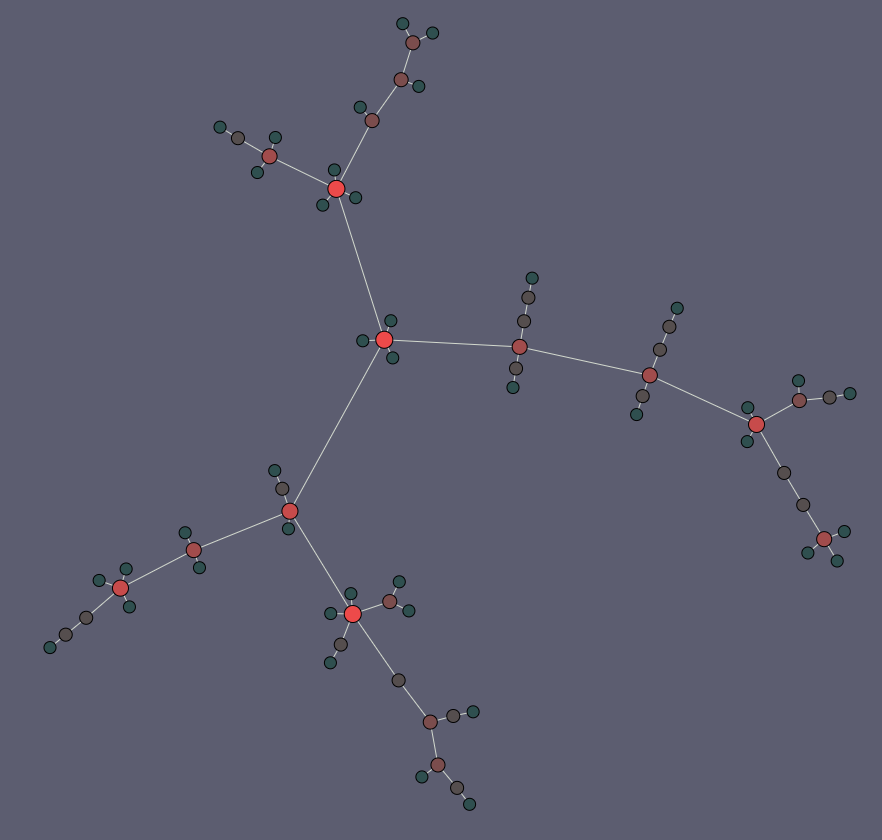
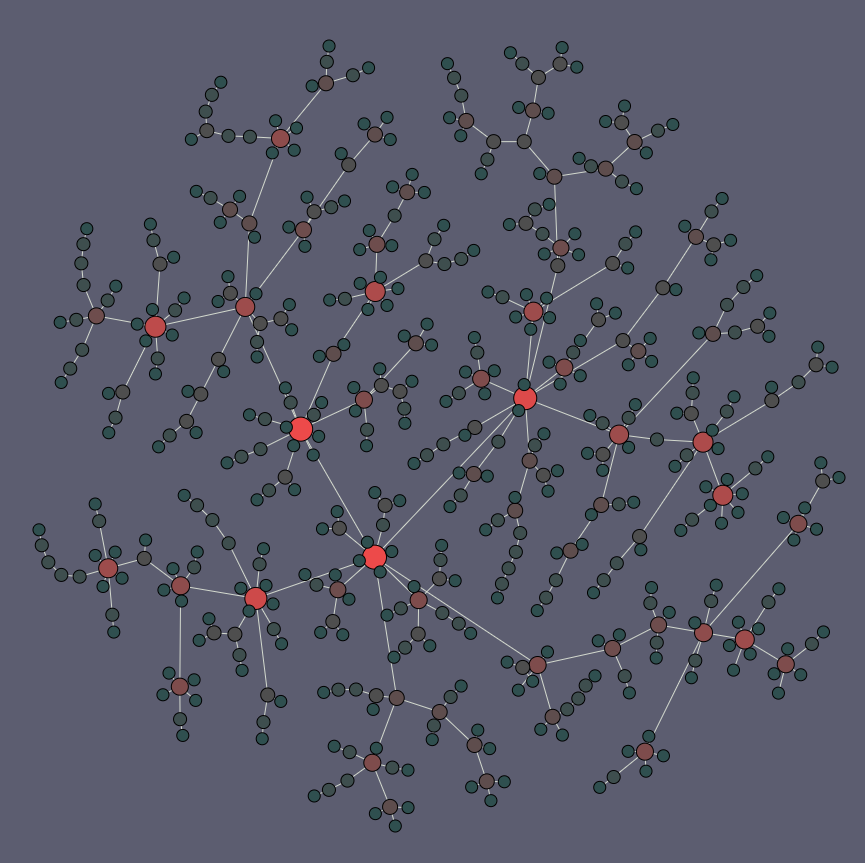
added sliders in the GUI to control model parameters

diff --git a/src/fdgd/controller/Controller.java b/src/fdgd/controller/Controller.java
@@ -12,6 +12,7 @@ import javafx.scene.canvas.Canvas;
 import javafx.scene.canvas.GraphicsContext;
 import javafx.scene.control.ChoiceBox;
 import javafx.scene.control.Label;
+import javafx.scene.control.Slider;
 import javafx.scene.control.SplitPane;
 import javafx.scene.control.TextField;
 import javafx.scene.input.MouseEvent;
@@ -63,6 +64,14 @@ public class Controller {
 	@FXML private Canvas drawArea;
 	@FXML private TextField textField;	
 	@FXML private ChoiceBox<String> cbox;
+	@FXML private Label c1label;
+	@FXML private Label c2label;
+	@FXML private Label c3label;
+	@FXML private Label c4label;
+	@FXML private Slider slider1;
+	@FXML private Slider slider2;
+	@FXML private Slider slider3;
+	@FXML private Slider slider4;
 	
 	@FXML 
 	public void initialize(){
@@ -135,6 +144,8 @@ public class Controller {
 				}
 			}
 		});
+		initSliders();
+		
 		
 		cbox.getItems().addAll("auto zoom/pane","free zoom/pane");
 		cbox.getSelectionModel().selectedIndexProperty().addListener(new ChangeListener<Number>() {
@@ -157,6 +168,61 @@ public class Controller {
 		//START ANIMATION
 		animationIni();
 		startRenderingAndAnimation();
+	}
+	
+	private void initSliders() {
+		initSlider(slider1,1,900);
+		c1label.setText(Double.toString(slider1.getValue()));
+		slider1.valueProperty().addListener(new ChangeListener<Object>() {
+			@Override
+			public void changed(ObservableValue observable, Object oldValue,
+					Object newValue) {
+				c1label.setText(Double.toString(slider1.getValue()));
+				fdd.setC1(slider1.getValue());
+				
+			}
+		});
+		initSlider(slider2, 0.1, 2);
+		c2label.setText(Double.toString(slider2.getValue()));
+		slider2.valueProperty().addListener(new ChangeListener<Object>() {
+			@Override
+			public void changed(ObservableValue observable, Object oldValue,
+					Object newValue) {
+				c2label.setText(Double.toString(slider2.getValue()));
+				fdd.setC2(slider2.getValue());
+				
+			}
+		});
+		initSlider(slider3, 1, 10000);
+		c3label.setText(Double.toString(slider3.getValue()));
+		slider3.valueProperty().addListener(new ChangeListener<Object>() {
+			@Override
+			public void changed(ObservableValue observable, Object oldValue,
+					Object newValue) {
+				c3label.setText(Double.toString(slider3.getValue()));
+				fdd.setC3(slider3.getValue());
+				
+			}
+		});
+		initSlider(slider4, 1, 100);
+		c4label.setText(Double.toString(slider4.getValue()));
+		slider4.valueProperty().addListener(new ChangeListener<Object>() {
+			@Override
+			public void changed(ObservableValue observable, Object oldValue,
+					Object newValue) {
+				c4label.setText(Double.toString(slider4.getValue()));
+				fdd.setC4(slider4.getValue());
+				
+			}
+		});
+	}
+
+	private void initSlider(Slider slider, double min, double max){
+		slider.setShowTickMarks(true);
+		slider.setMajorTickUnit(50);
+		slider.setMinorTickCount(5);
+		slider.setMin(min);
+		slider.setMax(max);
 	}
 	
 	@FXML

diff --git a/src/fdgd/model/ForceDirectedDrawing.java b/src/fdgd/model/ForceDirectedDrawing.java
@@ -31,10 +31,68 @@ public class ForceDirectedDrawing extends NetworkBuilder {
 */	// 1 10 10000 1 works but slow
 	// 5 1 10000 1 works well, nodes a bit too spread
 	
+	
+	
 	double stabilizer1=1;
 	double stabilizer2=1;//numON;
 	
 	
+	/**
+	 * @return the c1
+	 */
+	public double getC1() {
+		return c1;
+	}
+
+	/**
+	 * @param c1 the c1 to set
+	 */
+	public void setC1(double c1) {
+		this.c1 = c1;
+	}
+
+	/**
+	 * @return the c2
+	 */
+	public double getC2() {
+		return c2;
+	}
+
+	/**
+	 * @param c2 the c2 to set
+	 */
+	public void setC2(double c2) {
+		this.c2 = c2;
+	}
+
+	/**
+	 * @return the c3
+	 */
+	public double getC3() {
+		return c3;
+	}
+
+	/**
+	 * @param c3 the c3 to set
+	 */
+	public void setC3(double c3) {
+		this.c3 = c3;
+	}
+
+	/**
+	 * @return the c4
+	 */
+	public double getC4() {
+		return c4;
+	}
+
+	/**
+	 * @param c4 the c4 to set
+	 */
+	public void setC4(double c4) {
+		this.c4 = c4;
+	}
+
 	public ForceDirectedDrawing(int numberOfNodes) {
 		super(numberOfNodes);
 		nodeLocations = new double [numON][2];
